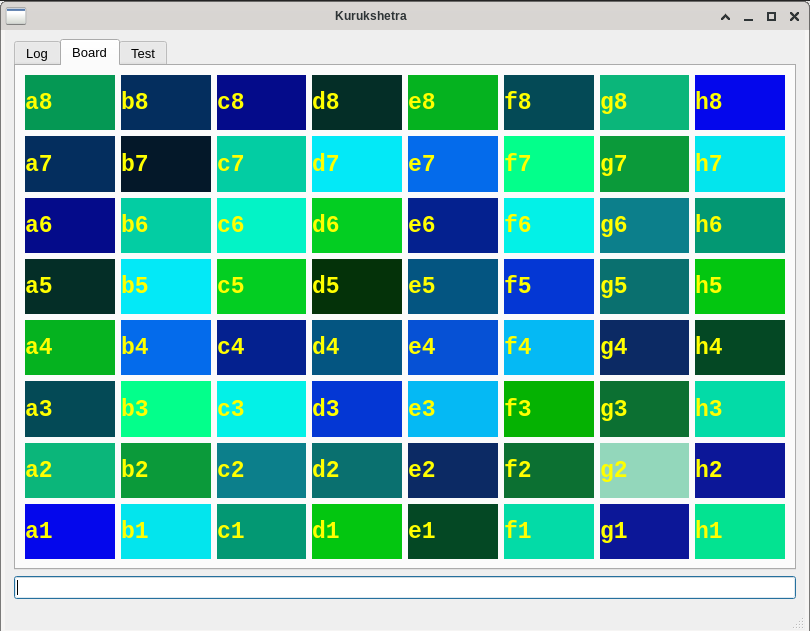
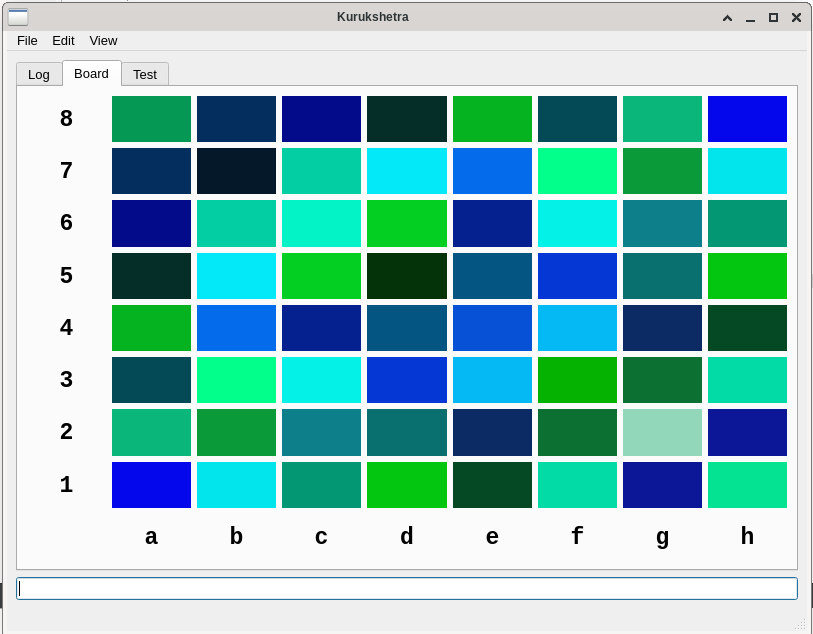
alignment

diff --git a/mainwindow.cpp b/mainwindow.cpp
@@ -99,6 +99,15 @@ QString unique()
     return ret;
 }
 
+QLabel *create_label(Ui::MainWindow *ui, QString text)
+{
+    QLabel *ret = new QLabel(ui->tab_board);
+    ret->setFont(ui->log->font());
+    ret->setText(text);
+    ret->setAlignment(Qt::AlignCenter | Qt::AlignVCenter);
+    return ret;
+}
+
 MainWindow::MainWindow(QWidget *parent)
     : QMainWindow(parent)
     , ui(new Ui::MainWindow)
@@ -109,14 +118,10 @@ MainWindow::MainWindow(QWidget *parent)
     std::istringstream I(::board);
     const int boardsize = 8;
     for (int i = 0; i < boardsize; i++) {
-        QLabel *label = new QLabel(ui->tab_board);
+        QLabel *label = create_label(ui, QString::asprintf("%c", 'a' + i));
         layout->addWidget(label, boardsize, i + 1);
-        label->setFont(ui->log->font());
-        label->setText(QString::asprintf("%c", 'a' + i));
-        label = new QLabel(ui->tab_board);
+        label = create_label(ui, QString::asprintf("%i", boardsize - i));
         layout->addWidget(label, i, 0);
-        label->setFont(ui->log->font());
-        label->setText(QString::asprintf("%i", boardsize - i));
     }
     for (int i = 0; i < boardsize; i++)
         for (int j = 0; j < boardsize; j++) {
